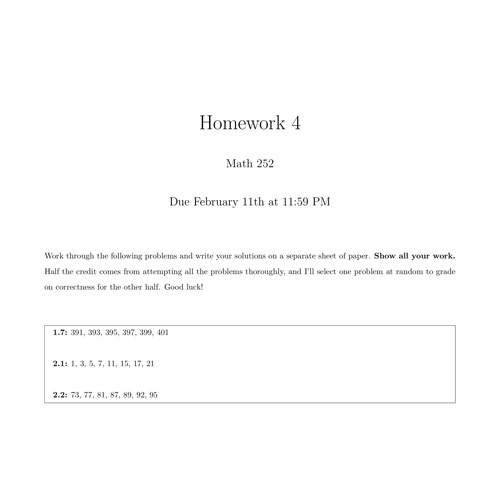
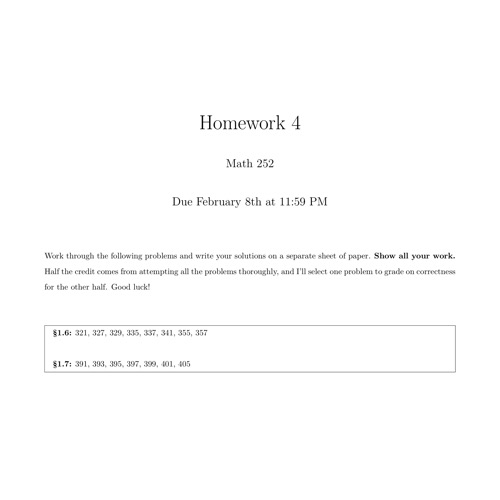
Updated 252

diff --git a/teaching/uo/252/notes/7-exp-and-log-integrals/index.html b/teaching/uo/252/notes/7-exp-and-log-integrals/index.html
@@ -28,7 +28,7 @@
 
 !begin-text-block
 	
-	So far, we know the antiderivatives of functions which are derivatives of other functions, and we can also sometimes compose them with $u$-sub. In this section, we&#x2019;ll talk about a few more common integrals, and then we&#x2019;ll end with a summary of all the integrals we know so far.
+	So far, we know how to find antiderivatives of functions which are derivatives of common functions, and we can also sometimes find antiderivatives of compositions by using $u$-sub. In this section, we&#x2019;ll talk about a few more common integrals, and then we&#x2019;ll end with a summary of all the ones we know so far.
 	
 !end-text-block
 
@@ -38,9 +38,9 @@
 	
 	An integral involving an exponential function
 	
-	A certain strain of bacteria grow at a rate of $3^t$ new bacteria per hour. If the population starts at $100$ bacteria at time $0$, how many will there be after $6$ hours?
+	A certain strain of bacteria grows at a rate of $3^t$ new bacteria per hour. If the population starts at $100$ bacteria at time $0$, how many will there be after $6$ hours?
 	
-	Let $N(t)$ be the number of total bacteria after $t$ hours. Then $N(0) = 0$ and $N'(t) = 3^t$, since the $3^t$ is the rate of growth of $N$. We want to find $N(6)$, so a good place to start is $N(t)$ in general. This is an antiderivative of $N'$, and so we have
+	Let&#x2019;s let $N(t)$ be the number of total bacteria after $t$ hours. Then $N(0) = 0$ and $N'(t) = 3^t$, since the $3^t$ is the rate of growth of $N$. We want to find $N(6)$, so a good place to start is finding $N(t)$ in general. This is an antiderivative of $N'$, and so we have
 	
 	$$
 		\begin{align*}
@@ -49,7 +49,35 @@
 		\end{align*}
 	$$
 	
-	Since $\frac{d}{dt} [3^t] = 3^t \ln(3)$, we can divide both sides by $\ln(3)$ to find that $N(t) = \int 3^t\ dt = \frac{1}{ln(3)} 3^t + C$. Since $N(0) = 100$, we have that $100 = \frac{1}{ln(3)} 3^0 + C$, so $C = 100 - \frac{1}{\ln(3)} \approx 99.09$. Therefore, $N(6) = \frac{3^6}{\ln(3)} + 99.09 = 762.7$.
+	Since
+	
+	$$
+		\frac{d}{dt} [3^t] = 3^t \ln(3),
+	$$
+	
+	we can divide both sides by $\ln(3)$ to find that
+	
+	$$
+		N(t) = \int 3^t\ dt = \frac{1}{ln(3)} 3^t + C.
+	$$
+	
+	Since $N(0) = 100$, we have that
+	
+	$$
+		100 = \frac{1}{ln(3)} 3^0 + C,
+	$$
+	
+	so
+	
+	$$
+		C = 100 - \frac{1}{\ln(3)} \approx 99.09.
+	$$
+	
+	Therefore,
+	
+	$$
+		N(6) = \frac{3^6}{\ln(3)} + 99.09 = 762.7.
+	$$
 	
 !end-example
 
@@ -58,7 +86,7 @@
 	An integral involving an exponential function
 	
 	A radioactive substance degrades at a rate of $-.0953 \cdot 1.1^{-t}$ grams per year after $t$ years. If there is initially $1$ gram of the substance, how much will be left after $20$ years?
-	
+	<!--
 	Solution: if $m(t)$ is the mass of the substance after $t$ years, then $m'(t) = -.0953 \cdot 1.1^{-t} = $ and $m(0) = 1$. Thus
 	
 	$$
@@ -70,7 +98,7 @@
 	$$
 	
 	Then $m(0) = 1 = 1.0105 \cdot .91^0 + C = 1.0105 + C$, so $C = -.0105$. In total, $m(t) = 1.0105 \cdot .91^t - .0105$.
-	
+	-->
 !end-exercise
 
 
@@ -79,9 +107,13 @@
 	
 	Another exponential integral
 	
-	Find $\int \frac{2^{1/x}}{x^2}\ dx$.
+	Find
 	
-	This is too complicated to evaluate directly, so we have to try $u$-sub. If we set $u = x^2$, then the exponential becomes $2^{1/\sqrt{u}}$, which is not helpful. Instead, we can try $u = \frac{1}{x}$. Then $du = -\frac{1}{x^2}\ dx$. This lines up nicely: the integral becomes
+	$$
+		\int \frac{2^{1/x}}{x^2}\ dx.
+	$$
+	
+	This is way too complicated to evaluate directly, so we have to try $u$-sub. If we set $u = x^2$, then the exponential becomes $2^{1/\sqrt{u}}$, which isn&#x2019;t really helpful. Instead, we can try $u = \frac{1}{x}$. Then $du = -\frac{1}{x^2}\ dx$, which lines up nicely: the integral becomes
 	
 	$$
 		\begin{align*}
@@ -96,7 +128,19 @@
 
 !begin-text-block
 	
-	We know that $\int \frac{1}{x}\ dx = \ln|x| + C$, since $\frac{d}{dx}[\ln|x|] = \frac{1}{x}$, but we don&#x2019;t yet know the integral of $\ln(x)$, or more generally of $\log_a(x)$ for any $a$. Let&#x2019;s fix that now.
+	We know that
+	
+	$$
+		\int \frac{1}{x}\ dx = \ln|x| + C,
+	$$
+	
+	since
+	
+	$$
+		\frac{d}{dx}[\ln|x|] = \frac{1}{x},
+	$$
+	
+	but we don&#x2019;t yet know the integral of $\ln(x)$, or more generally of $\log_a(x)$ for any $a$. Let&#x2019;s fix that now.
 	
 !end-text-block
 
@@ -104,18 +148,22 @@
 
 !begin-prop
 	
-	the integral of natural log
+	the integral of $\ln$
 	
-	$\int \ln(x)\ dx = x\ln(x) - x + C$.
+	$$
+		\int \ln(x)\ dx = x\ln(x) - x + C.
+	$$
 	
 !end-prop
 
 !begin-exercise
 	
+	the integral of $\ln$
+	
 	Differentiate $x\ln(x) - x + C$ and verify that you do in fact get $\ln(x)$.
-	
-	Solution: the product rule gives that the derivative is $\ln(x) + 1 - 1 = \ln(x)$.
-	
+	<!--
+	<strong>Solution:</strong> the product rule gives that the derivative is $\ln(x) + 1 - 1 = \ln(x)$.
+	-->
 !end-exercise
 
 
@@ -138,11 +186,17 @@
 	
 	a logarithmic integral
 	
-	Find $\int_2^3 \log_2(5x)\ dx$.
+	Find
+	
+	$$
+		\int_2^3 \log_2(5x)\ dx.
+	$$
 	
 	First, we&#x2019;ll turn this log into a natural log.
 	
-	$$\int_2^3 \log_2(5x)\ dx = \int_2^3 \frac{\ln(5x)}{\ln(2)}\ dx.$$
+	$$
+		\int_2^3 \log_2(5x)\ dx = \int_2^3 \frac{\ln(5x)}{\ln(2)}\ dx.
+	$$
 	
 	Now since $\ln(2)$ is a constant, we can factor it out of the integral and use $u$-sub to handle the rest.
 	
@@ -243,9 +297,13 @@
 	an inverse trig integral
 	
 	Find $\int \frac{1}{x\sqrt{4x^2 - 4}}\ dx$.
+	<!--
+	<strong>Solution:</strong> first we need to factor out a $4$. Then we have
 	
-	Solution: first we need to factor out a $4$. Then we have $\int \frac{1}{2x\sqrt{x^2 - 1}}\ dx = \frac{1}{2} \sec^{-1}(x)$.
-	
+	$$
+		\int \frac{1}{2x\sqrt{x^2 - 1}}\ dx = \frac{1}{2} \sec^{-1}(x).
+	$$
+	-->
 !end-exercise
 
 
@@ -262,7 +320,11 @@
 	
 	a definite inverse trig integral
 	
-	Find $\int_0^2 \frac{1}{\sqrt{16 - x^2}}\ dx$.
+	Find
+	
+	$$
+		\int_0^2 \frac{1}{\sqrt{16 - x^2}}\ dx.
+	$$
 	
 	We have
 	
@@ -282,9 +344,13 @@
 	a definite inverse trig integral
 	
 	Find $\int_{\sqrt{3}/3}^{\sqrt{3}} \frac{1}{1 + x^2}\ dx$.
+	<!--
+	<strong>Solution:</strong> this is
 	
-	Solution: this is $\left. \left[ \tan^{-1}(x) \right] \right_{\sqrt{3}/3}^{\sqrt{3}} = \frac{\pi}{3} - \frac{\pi}{6} = \frac{\pi}{6}$.
-	
+	$$
+		\left. \left[ \tan^{-1}(x) \right] \right_{\sqrt{3}/3}^{\sqrt{3}} = \frac{\pi}{3} - \frac{\pi}{6} = \frac{\pi}{6}.
+	$$
+	-->
 !end-exercise
 
 

diff --git a/teaching/uo/252/index.html b/teaching/uo/252/index.html
@@ -29,8 +29,6 @@
 <div class="multicol-block">
 	!text s General Resources
 
-	
-	
 	!begin-image-links
 		
 		syllabus/syllabus.pdf l Syllabus
@@ -50,8 +48,6 @@
 
 <div class="multicol-block">
 	!text s Interactive Notes
-
-	
 	
 	!begin-image-links
 		
@@ -101,8 +97,6 @@
 <div class="multicol-block">
 	!text s Homework
 
-	
-	
 	!begin-image-links
 		
 		homework/1/homework-1.pdf l Homework 1
@@ -110,9 +104,9 @@
 		homework/2/homework-2.pdf l Homework 2
 		
 		homework/3/homework-3.pdf l Homework 3
-		<!--
-		homework/4/homework-4.pdf l Homework 4
 		
+		homework/4/homework-4.pdf l Homework 4
+		<!--
 		homework/5/homework-5.pdf l Homework 5
 		
 		homework/6/homework-6.pdf l Homework 6
